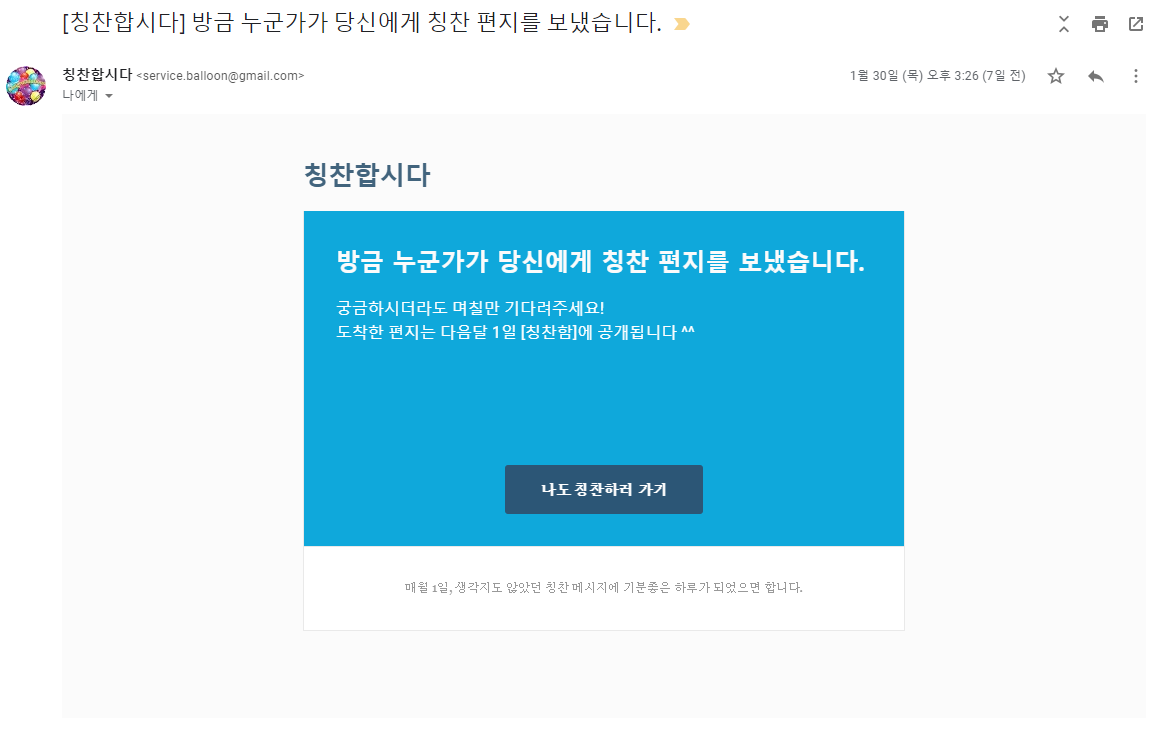
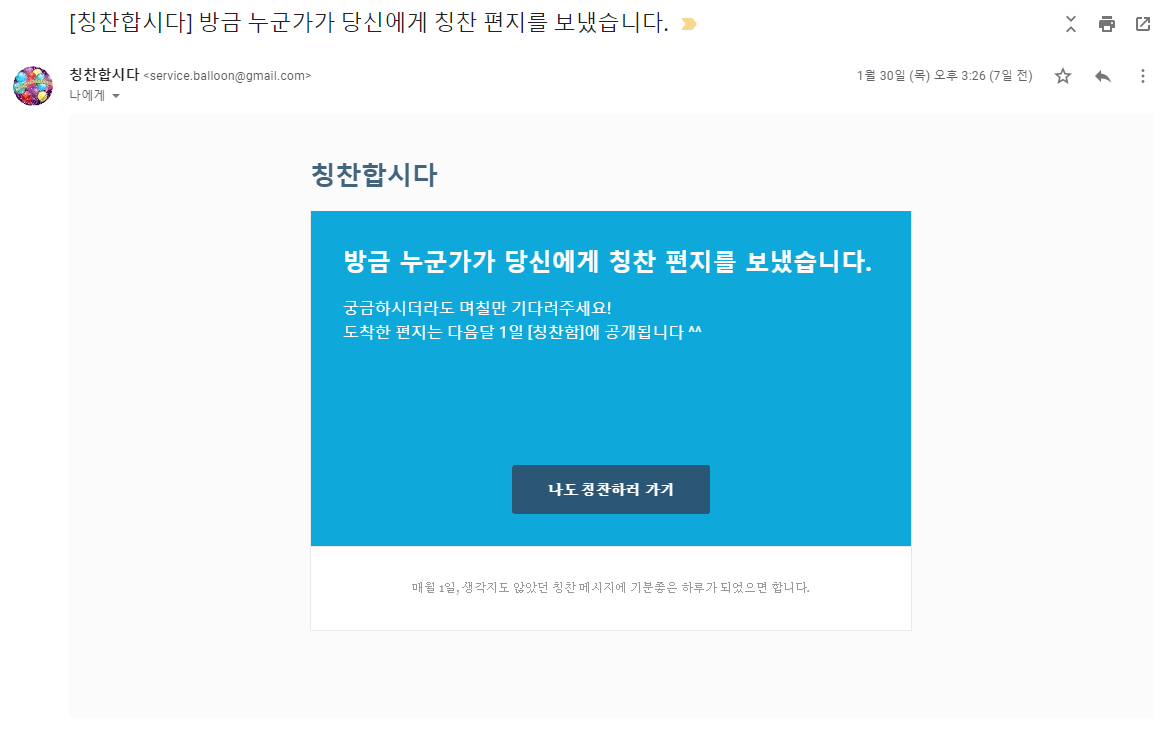
Update content

diff --git a/src/pages/DevelopmentDetails/Balloon.js b/src/pages/DevelopmentDetails/Balloon.js
@@ -77,6 +77,13 @@ const Balloon = () => {
           </dd>
         </dl>
         <dl>
+          <dt>칭찬 알림 메일</dt>
+          <dd>
+            <p>기분좋은 기다림을 주기 위해 칭찬 도착 알림 메일이 발송되고, 메시지는 다음달 1일에 공개됩니다.</p>
+            <ImageLoader src={require('statics/img/development/balloon/feature-mail.png')} alt={name} theme="white" />
+          </dd>
+        </dl>
+        <dl>
           <dt>내가 받은 칭찬 메시지</dt>
           <dd>
             <p>본인에게 도착한 칭찬 메시지는 매월 1일 칭찬함에서 열람할 수 있습니다.</p>
